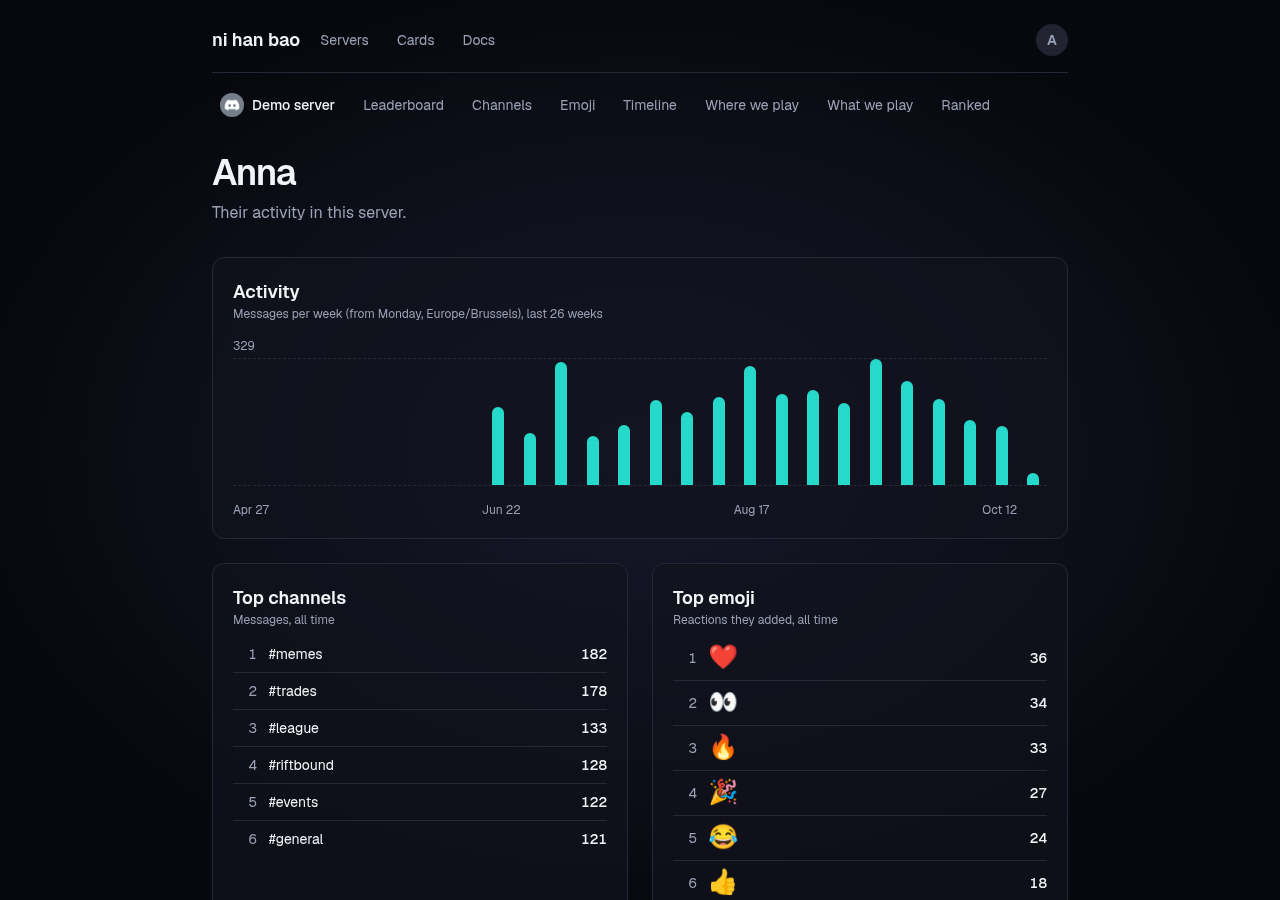
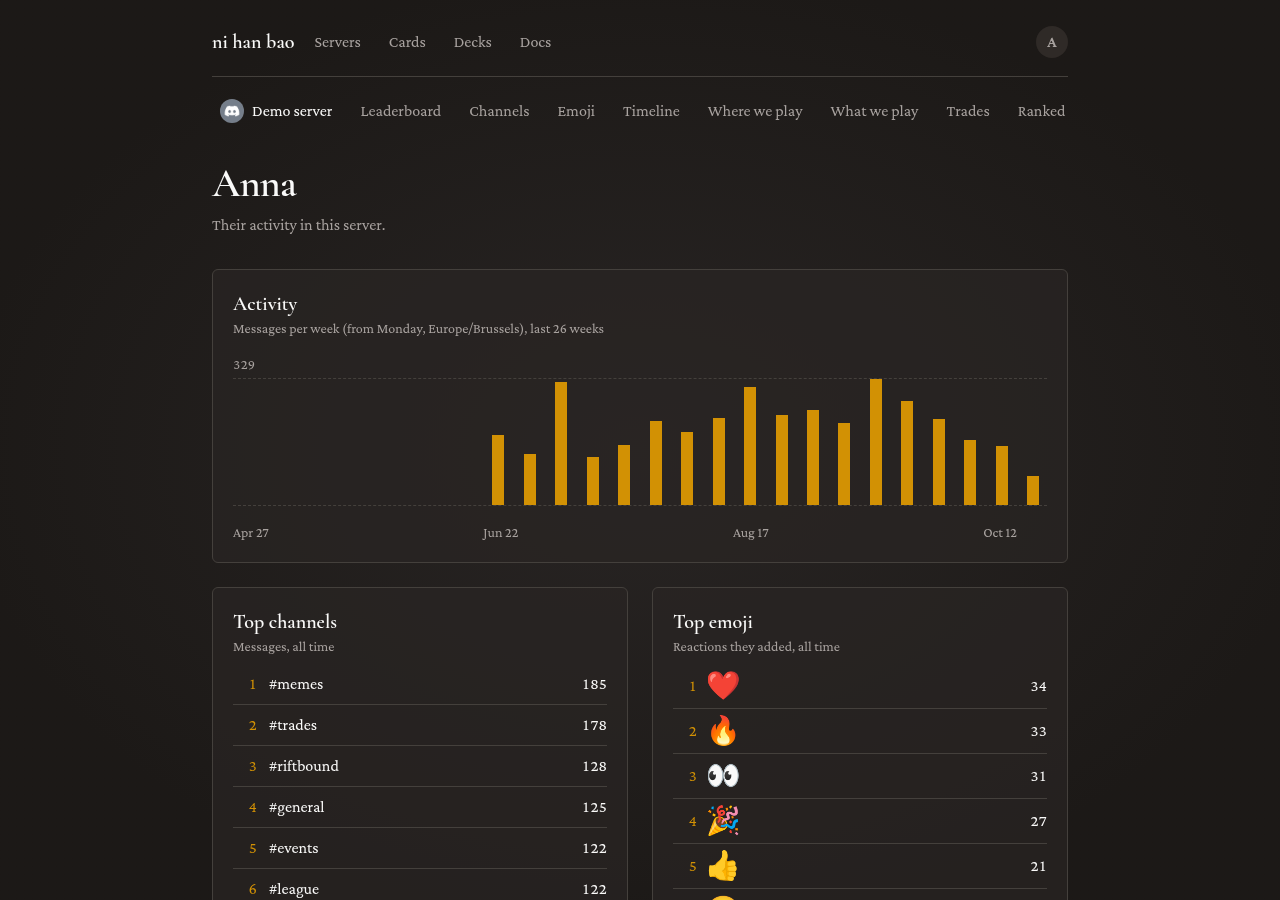
feat(site): Archive theme, black and gold with serif type (#196)
Stone black primary and gold accent tokens for light and dark, Cormorant Garamond
headings and Crimson Pro text via next/font, a type scale one step up so text-sm is
16px, a tighter radius, gold for link hovers, rank numbers and the Discord mock's
highlights, and the OG images on the new dark palette. Screenshots now cover the
light theme too; docs images regenerated.

diff --git a/app/globals.css b/app/globals.css
@@ -2,59 +2,62 @@
 @tailwind components;
 @tailwind utilities;
 
-/* Brand colours: primary (violet) and chart-2 (teal); chart-1 repeats primary for charts.
-   success and destructive are status accents only (online/offline, up/down). */
+/* Theme "Archive" (#196): stone black primary, gold (--gold) the one accent; chart-1 repeats
+   primary, chart-2 is gold. success and destructive are status accents only (online/offline,
+   up/down). --input is darker than --border so form fields keep a 3:1 outline. */
 @layer base {
   :root {
-    --background: 225 25% 93%;
+    --background: 60 9% 98%;
     --background-glow: 0 0% 100%;
-    --foreground: 230 25% 10%;
+    --foreground: 24 10% 10%;
     --card: 0 0% 100%;
-    --card-foreground: 230 25% 10%;
+    --card-foreground: 24 10% 10%;
     --popover: 0 0% 100%;
-    --popover-foreground: 230 25% 10%;
-    --primary: 250 70% 50%;
+    --popover-foreground: 24 10% 10%;
+    --primary: 24 10% 10%;
     --primary-foreground: 0 0% 100%;
-    --secondary: 225 25% 90%;
-    --secondary-foreground: 230 25% 10%;
-    --muted: 225 25% 90%;
-    --muted-foreground: 225 12% 38%;
-    --accent: 225 25% 90%;
-    --accent-foreground: 230 25% 10%;
-    --destructive: 0 72% 45%;
+    --secondary: 60 5% 96%;
+    --secondary-foreground: 24 10% 10%;
+    --muted: 60 5% 96%;
+    --muted-foreground: 33 5% 32%;
+    --accent: 60 5% 96%;
+    --accent-foreground: 24 10% 10%;
+    --gold: 35 92% 33%;
+    --destructive: 0 74% 42%;
     --destructive-foreground: 0 0% 100%;
-    --success: 145 65% 32%;
-    --border: 225 20% 84%;
-    --input: 225 20% 84%;
-    --ring: 250 70% 50%;
-    --chart-1: 250 70% 55%;
-    --chart-2: 175 75% 35%;
-    --radius: 0.75rem;
+    --success: 142 72% 29%;
+    --border: 20 6% 90%;
+    --input: 25 5% 45%;
+    --ring: 24 10% 10%;
+    --chart-1: 24 10% 10%;
+    --chart-2: 35 92% 33%;
+    --radius: 0.25rem;
   }
   .dark {
-    --background: 230 30% 4%;
-    --background-glow: 235 30% 13%;
-    --foreground: 220 20% 96%;
-    --card: 230 25% 9%;
-    --card-foreground: 220 20% 96%;
-    --popover: 230 25% 9%;
-    --popover-foreground: 220 20% 96%;
-    --primary: 250 90% 74%;
-    --primary-foreground: 230 30% 8%;
-    --secondary: 230 20% 16%;
-    --secondary-foreground: 220 20% 96%;
-    --muted: 230 20% 16%;
-    --muted-foreground: 225 15% 66%;
-    --accent: 230 20% 16%;
-    --accent-foreground: 220 20% 96%;
-    --destructive: 0 80% 65%;
-    --destructive-foreground: 230 30% 8%;
-    --success: 145 65% 50%;
-    --border: 230 20% 18%;
-    --input: 230 20% 18%;
-    --ring: 250 90% 74%;
-    --chart-1: 250 90% 70%;
-    --chart-2: 175 70% 50%;
+    --background: 24 10% 10%;
+    --background-glow: 12 6% 15%;
+    --foreground: 60 9% 98%;
+    --card: 12 6% 15%;
+    --card-foreground: 60 9% 98%;
+    --popover: 12 6% 15%;
+    --popover-foreground: 60 9% 98%;
+    --primary: 60 9% 98%;
+    --primary-foreground: 24 10% 10%;
+    --secondary: 23 9% 17%;
+    --secondary-foreground: 60 9% 98%;
+    --muted: 23 9% 17%;
+    --muted-foreground: 24 5% 64%;
+    --accent: 23 9% 17%;
+    --accent-foreground: 60 9% 98%;
+    --gold: 41 96% 42%;
+    --destructive: 0 91% 71%;
+    --destructive-foreground: 24 10% 10%;
+    --success: 142 69% 58%;
+    --border: 30 6% 25%;
+    --input: 25 5% 45%;
+    --ring: 60 9% 98%;
+    --chart-1: 60 9% 98%;
+    --chart-2: 41 96% 42%;
   }
 }
 
@@ -63,13 +66,19 @@
     @apply border-border;
   }
   body {
-    @apply bg-background text-foreground;
+    @apply bg-background font-sans text-foreground;
     background-image: radial-gradient(
       ellipse at center,
       hsl(var(--background-glow)),
       hsl(var(--background)) 75%
     );
     background-attachment: fixed;
+  }
+  h1,
+  h2,
+  h3,
+  h4 {
+    @apply font-heading;
   }
   :focus-visible {
     outline: 2px solid hsl(var(--ring));
@@ -89,7 +98,7 @@
 
 @layer components {
   .card {
-    @apply rounded-xl border bg-card/70 p-5 text-card-foreground transition-colors hover:border-primary/40;
+    @apply rounded-xl border bg-card/70 p-5 text-card-foreground transition-colors hover:border-gold/50;
   }
 }
 

diff --git a/app/layout.tsx b/app/layout.tsx
@@ -1,5 +1,5 @@
 import type { Metadata } from "next";
-import { Geist } from "next/font/google";
+import { Cormorant_Garamond, Crimson_Pro } from "next/font/google";
 import { ThemeProvider } from "next-themes";
 import Link from "next/link";
 import { Suspense } from "react";
@@ -30,8 +30,16 @@ const analytics =
     ? `window.va=window.va||function(){(window.vaq=window.vaq||[]).push(arguments)};window.va("beforeSend",function(e){return Object.assign({},e,{url:e.url.replace(/\\/member\\/[^/?#]+/,"/member/[userId]").replace(/\\/u\\/[^/?#]+/,"/u/[userId]")})});`
     : null;
 
-const geistSans = Geist({
-  variable: "--font-geist-sans",
+const heading = Cormorant_Garamond({
+  variable: "--font-heading",
+  weight: ["600", "700"],
+  display: "swap",
+  subsets: ["latin"],
+});
+
+const body = Crimson_Pro({
+  variable: "--font-body",
+  weight: ["400", "600"],
   display: "swap",
   subsets: ["latin"],
 });
@@ -43,7 +51,7 @@ export default function RootLayout({
 }>) {
   return (
     <html lang="en" suppressHydrationWarning>
-      <body className={`${geistSans.className} antialiased`}>
+      <body className={`${heading.variable} ${body.variable} antialiased`}>
         <ThemeProvider
           attribute="class"
           defaultTheme="dark"
@@ -55,7 +63,7 @@ export default function RootLayout({
             <header className="flex flex-wrap items-center gap-2 border-b pb-4">
               <Link
                 href="/"
-                className="whitespace-nowrap rounded-md text-lg font-semibold transition-colors hover:text-primary active:text-primary/80"
+                className="whitespace-nowrap rounded-md text-lg font-semibold font-heading transition-colors hover:text-gold active:text-gold/80"
               >
                 ni han bao
               </Link>

diff --git a/tailwind.config.ts b/tailwind.config.ts
@@ -12,15 +12,20 @@ export default {
   ],
   theme: {
     // The whole type scale: six sizes, replacing Tailwind's defaults so no other size exists.
+    // A step above the usual rem values: both serifs (#196) run small, so text-sm is 16px.
     fontSize: {
-      xs: ["0.75rem", { lineHeight: "1rem" }],
-      sm: ["0.875rem", { lineHeight: "1.25rem" }],
-      base: ["1rem", { lineHeight: "1.5rem" }],
-      lg: ["1.125rem", { lineHeight: "1.75rem" }],
-      "2xl": ["1.5rem", { lineHeight: "1.2", letterSpacing: "-0.02em" }],
-      "4xl": ["2.25rem", { lineHeight: "1.1", letterSpacing: "-0.03em" }],
+      xs: ["0.875rem", { lineHeight: "1.25rem" }],
+      sm: ["1rem", { lineHeight: "1.5rem" }],
+      base: ["1.125rem", { lineHeight: "1.75rem" }],
+      lg: ["1.25rem", { lineHeight: "1.75rem" }],
+      "2xl": ["1.75rem", { lineHeight: "1.2", letterSpacing: "-0.01em" }],
+      "4xl": ["2.5rem", { lineHeight: "1.1", letterSpacing: "-0.02em" }],
     },
     extend: {
+      fontFamily: {
+        sans: ["var(--font-body)", "Georgia", "serif"],
+        heading: ["var(--font-heading)", "Georgia", "serif"],
+      },
       colors: {
         background: "hsl(var(--background))",
         foreground: "hsl(var(--foreground))",
@@ -52,6 +57,7 @@ export default {
           DEFAULT: "hsl(var(--destructive))",
           foreground: "hsl(var(--destructive-foreground))",
         },
+        gold: "hsl(var(--gold))",
         success: "hsl(var(--success))",
         border: "hsl(var(--border))",
         input: "hsl(var(--input))",
@@ -62,6 +68,7 @@ export default {
         },
       },
       borderRadius: {
+        xl: "calc(var(--radius) + 2px)",
         lg: "var(--radius)",
         md: "calc(var(--radius) - 2px)",
         sm: "calc(var(--radius) - 4px)",

diff --git a/components/discord-message.tsx b/components/discord-message.tsx
@@ -36,11 +36,11 @@ function Markdown({ text, channels }: { text: string; channels: Record<string, s
       t.kind === "bold" ? (
         <strong key={i}>{draw(t.children)}</strong>
       ) : t.kind === "channel" ? (
-        <span key={i} className="rounded bg-primary/10 px-0.5 text-primary">
+        <span key={i} className="rounded bg-gold/10 px-0.5 text-gold">
           #{t.name}
         </span>
       ) : t.kind === "link" ? (
-        <span key={i} className="text-primary">
+        <span key={i} className="text-gold">
           {t.url}
         </span>
       ) : t.kind === "emoji" ? (
@@ -57,7 +57,7 @@ function EmbedView({ embed, channels }: { embed: Embed; channels: Record<string,
   const image = embed.image?.url;
   return (
     <div className="flex max-w-lg flex-col gap-2 rounded-md border-l-4 border-l-muted-foreground bg-secondary p-3" style={{ borderLeftColor: color }}>
-      {embed.title && <p className={cn("font-semibold", embed.url && "text-primary")}>{embed.title}</p>}
+      {embed.title && <p className={cn("font-semibold", embed.url && "text-gold")}>{embed.title}</p>}
       {embed.description && <Markdown text={embed.description} channels={channels} />}
       {embed.fields && (
         <dl className="grid grid-cols-1 gap-2 sm:grid-cols-3">
@@ -94,7 +94,7 @@ export function DiscordMessage({ command, ephemeral, channels, message }: Reply)
       {command && (
         <p className="flex items-center gap-1 pl-5 text-xs text-muted-foreground">
           <CornerDownRight aria-hidden className="size-3" />
-          You used <span className="font-medium text-primary">{command}</span>
+          You used <span className="font-medium text-gold">{command}</span>
         </p>
       )}
       <div className="flex gap-3">

diff --git a/components/stat-ui.tsx b/components/stat-ui.tsx
@@ -51,7 +51,7 @@ export function RankList({ children }: { children: ReactNode }) {
 export function RankRow({ rank, value, children }: { rank: number; value: string; children: ReactNode }) {
   return (
     <li className="flex items-center gap-3 py-2 text-sm first:pt-0 last:pb-0">
-      <span className="w-6 shrink-0 text-right tabular-nums text-muted-foreground">{rank}</span>
+      <span className="w-6 shrink-0 text-right tabular-nums text-gold">{rank}</span>
       {children}
       <span className="min-w-12 shrink-0 text-right font-medium tabular-nums">{value}</span>
     </li>
@@ -98,7 +98,7 @@ export function MemberRankRow({
       )}
       <span className="flex min-w-0 flex-1 flex-col">
         {href ? (
-          <Link href={href} className="truncate underline-offset-4 hover:text-primary hover:underline">
+          <Link href={href} className="truncate underline-offset-4 hover:text-gold hover:underline">
             {name}
           </Link>
         ) : (

diff --git a/app/s/[guildId]/recap/[month]/og/route.tsx b/app/s/[guildId]/recap/[month]/og/route.tsx
@@ -1,4 +1,4 @@
-import { BACKGROUND, BORDER, CARD, FOREGROUND, MUTED, PRIMARY } from "@/lib/og";
+import { BACKGROUND, BORDER, CARD, FOREGROUND, GOLD, MUTED } from "@/lib/og";
 import { funFact, hourLabel, KEY_PATTERN, monthLabel, recapMonth, type RecapData } from "@/lib/recap";
 import { createClient } from "@/lib/supabase/server";
 import { hasEnvVars } from "@/lib/utils";
@@ -48,7 +48,7 @@ function recapImage(month: string, data: RecapData) {
       >
         <div style={{ display: "flex", flexDirection: "column", gap: 8 }}>
           <div style={{ fontSize: 28, color: MUTED, ...ellipsis }}>{data.server ?? "ni han bao"}</div>
-          <div style={{ fontSize: 64, color: PRIMARY }}>{`Monthly recap: ${monthLabel(month)}`}</div>
+          <div style={{ fontSize: 64, color: GOLD }}>{`Monthly recap: ${monthLabel(month)}`}</div>
         </div>
         <div style={{ flex: 1, display: "flex", gap: 24 }}>
           <div style={{ ...box, flex: 1 }}>

diff --git a/app/opengraph-image.tsx b/app/opengraph-image.tsx
@@ -1,6 +1,6 @@
 import type { Totals } from "@/components/bot-status";
 import { utcWeekStart } from "@/components/leaderboard";
-import { BACKGROUND, BORDER, CARD, FOREGROUND, MUTED, PRIMARY } from "@/lib/og";
+import { BACKGROUND, BORDER, CARD, FOREGROUND, GOLD, MUTED } from "@/lib/og";
 import { hasEnvVars } from "@/lib/utils";
 import { createClient } from "@supabase/supabase-js";
 import { cacheLife } from "next/cache";
@@ -56,7 +56,7 @@ export default async function Image() {
         }}
       >
         <div style={{ display: "flex", flexDirection: "column", gap: 16 }}>
-          <div style={{ fontSize: 96, color: PRIMARY }}>ni han bao</div>
+          <div style={{ fontSize: 96, color: GOLD }}>ni han bao</div>
           <div style={{ fontSize: 36, color: MUTED }}>
             Quietly counting every message, so you can argue about who talks too much.
           </div>

diff --git a/app/terms/page.tsx b/app/terms/page.tsx
@@ -31,7 +31,7 @@ export default function TermsPage() {
           you agree to these terms. What the bot collects and who can see it is on{" "}
           <Link
             href="/about"
-            className="font-medium underline underline-offset-4 hover:text-primary"
+            className="font-medium underline underline-offset-4 hover:text-gold"
           >
             About &amp; privacy
           </Link>
@@ -68,7 +68,7 @@ export default function TermsPage() {
           These terms may change; the version on this page is the one that applies. Questions?{" "}
           <a
             href={`${REPO}/issues`}
-            className="font-medium underline underline-offset-4 hover:text-primary"
+            className="font-medium underline underline-offset-4 hover:text-gold"
           >
             Open an issue on GitHub
           </a>

diff --git a/lib/og.ts b/lib/og.ts
@@ -1,8 +1,8 @@
 // Satori draws the Open Graph images, not the browser, so the design tokens (CSS variables)
 // do not reach them: these are the dark theme's values from globals.css.
-export const BACKGROUND = "hsl(230, 30%, 4%)";
-export const CARD = "hsl(230, 25%, 9%)";
-export const BORDER = "hsl(230, 20%, 18%)";
-export const FOREGROUND = "hsl(220, 20%, 96%)";
-export const MUTED = "hsl(225, 15%, 66%)";
-export const PRIMARY = "hsl(250, 90%, 74%)";
+export const BACKGROUND = "hsl(24, 10%, 10%)";
+export const CARD = "hsl(12, 6%, 15%)";
+export const BORDER = "hsl(30, 6%, 25%)";
+export const FOREGROUND = "hsl(60, 9%, 98%)";
+export const MUTED = "hsl(24, 5%, 64%)";
+export const GOLD = "hsl(41, 96%, 42%)";

diff --git a/components/trade-stats.tsx b/components/trade-stats.tsx
@@ -80,7 +80,7 @@ export async function TradeStats({ guild }: { guild: string }) {
         matches.map((m) => (
           <div key={m.card} className="flex min-w-0 flex-col gap-2">
             <h3 className="flex items-baseline justify-between gap-3 text-sm font-medium">
-              <Link href={`/cards/${m.card}`} className="min-w-0 truncate underline-offset-4 hover:text-primary hover:underline">
+              <Link href={`/cards/${m.card}`} className="min-w-0 truncate underline-offset-4 hover:text-gold hover:underline">
                 {names.get(m.card) ?? m.card}
               </Link>
               <span className="shrink-0 tabular-nums text-muted-foreground">You want {m.want}</span>

diff --git a/app/page.tsx b/app/page.tsx
@@ -165,11 +165,11 @@ function Landing() {
         </Faq>
         <p className="text-sm text-muted-foreground">
           More in the{" "}
-          <Link href="/docs" className="font-medium underline underline-offset-4 hover:text-primary">
+          <Link href="/docs" className="font-medium underline underline-offset-4 hover:text-gold">
             docs
           </Link>{" "}
           and in{" "}
-          <Link href="/about" className="font-medium underline underline-offset-4 hover:text-primary">
+          <Link href="/about" className="font-medium underline underline-offset-4 hover:text-gold">
             About &amp; privacy
           </Link>
           .

diff --git a/mdx-components.tsx b/mdx-components.tsx
@@ -11,7 +11,7 @@ const components: MDXComponents = {
   ol: (props) => <ol className="flex list-decimal flex-col gap-1 pl-5" {...props} />,
   code: (props) => <code className="rounded bg-muted px-1 py-0.5 font-mono text-sm" {...props} />,
   a: ({ href = "", ...props }) => (
-    <Link href={href} className="font-medium underline underline-offset-4 hover:text-primary" {...props} />
+    <Link href={href} className="font-medium underline underline-offset-4 hover:text-gold" {...props} />
   ),
   // eslint-disable-next-line @next/next/no-img-element
   img: ({ alt = "", ...props }) => <img alt={alt} className="rounded-xl border" loading="lazy" {...props} />,
